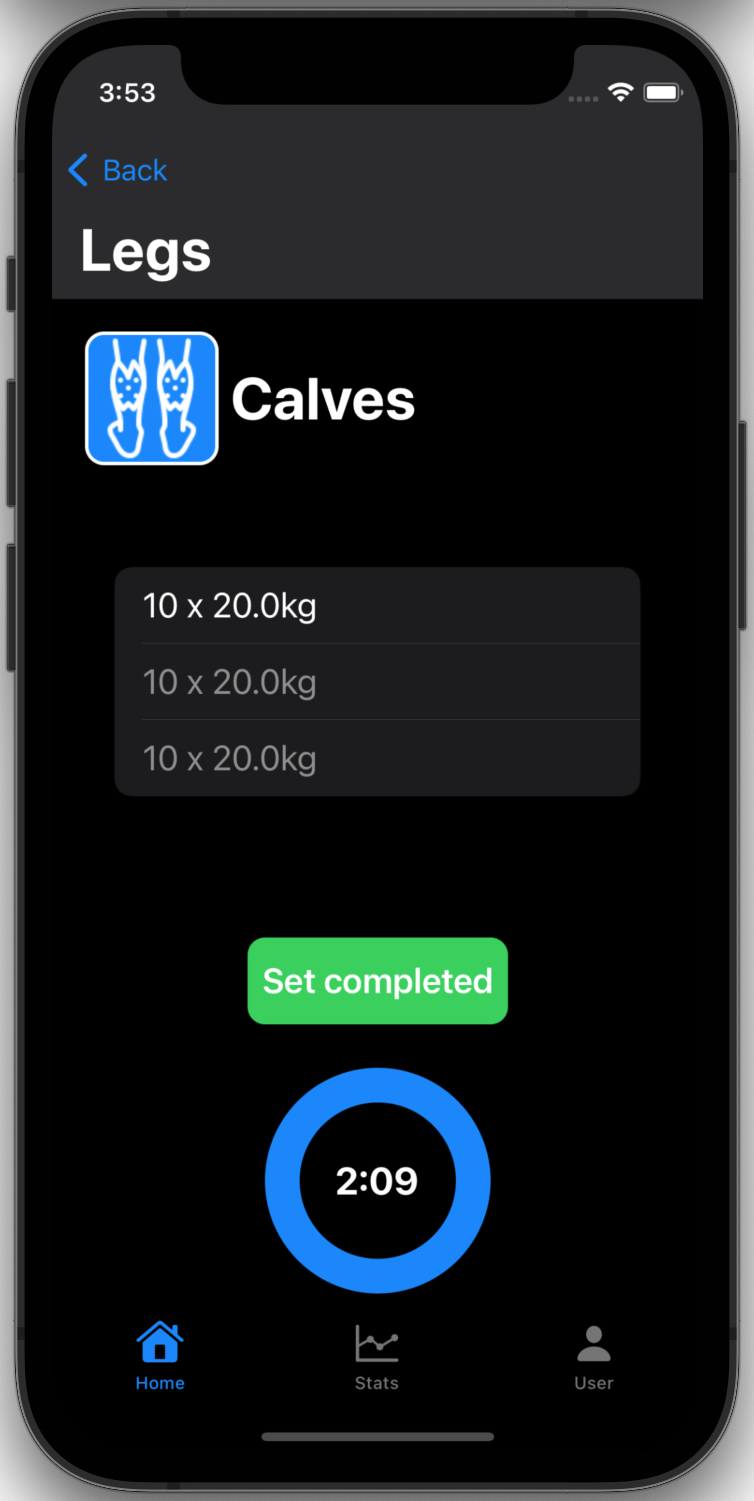
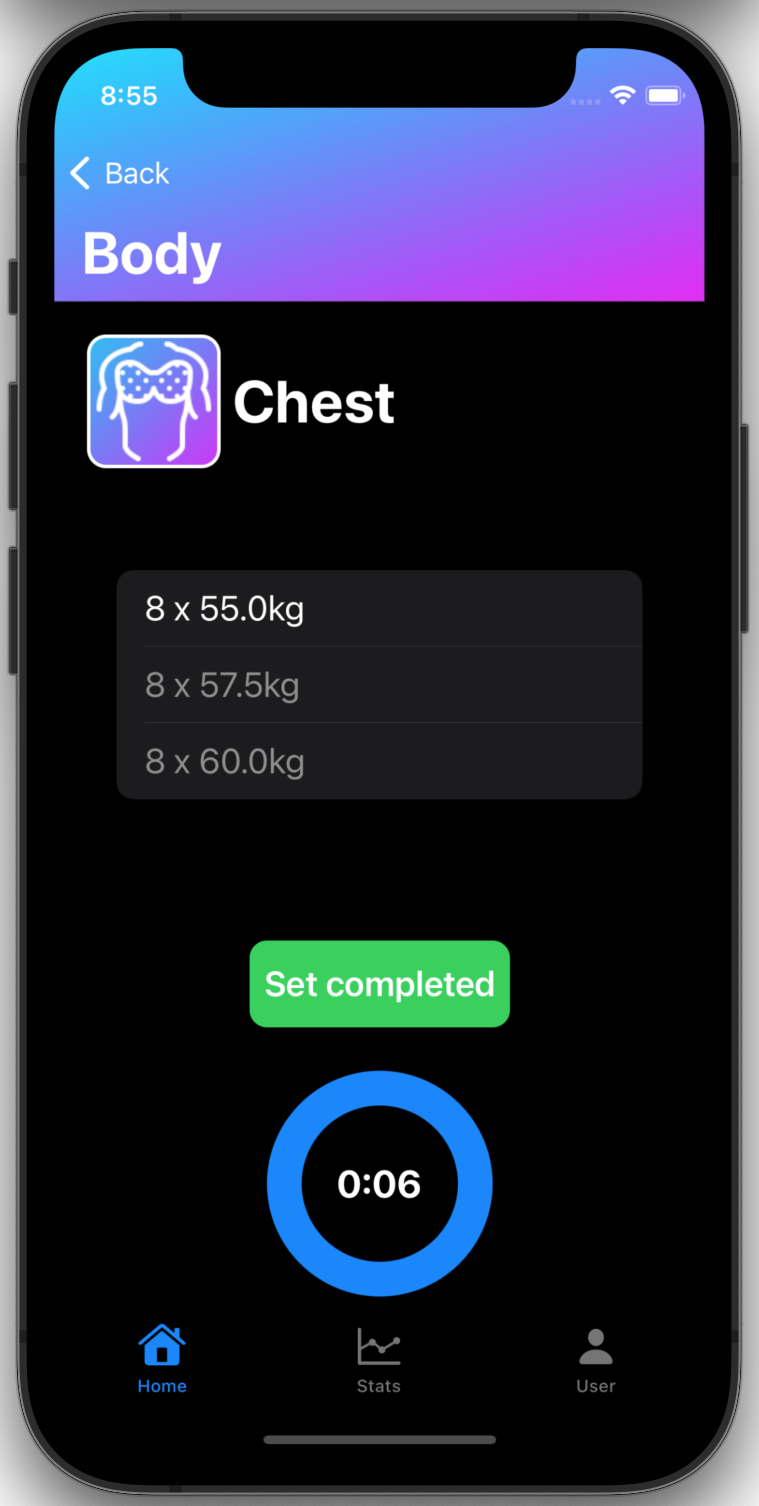
BACK UP

diff --git a/LiftWeights/LiftWeights/Views/HomeView.swift b/LiftWeights/LiftWeights/Views/HomeView.swift
@@ -20,13 +20,13 @@ struct HomeView: View {
         showAddRoutineView = showAddRoutineView
         
         customNavAppearance.configureWithOpaqueBackground()
-        customNavAppearance.backgroundColor = UIColor.systemFill
+        customNavAppearance.backgroundImage = UIImage(named: "background")
         customNavAppearance.titleTextAttributes = [.foregroundColor: UIColor.label]
         customNavAppearance.largeTitleTextAttributes = [.foregroundColor: UIColor.label]
                
         UINavigationBar.appearance().standardAppearance = customNavAppearance
         UINavigationBar.appearance().scrollEdgeAppearance = customNavAppearance
-        
+        UINavigationBar.appearance().tintColor = .white
     }
     
     var body: some View {
@@ -53,12 +53,13 @@ struct HomeView: View {
                             showAddRoutineView = true
                         }, label: {
                             Label("New Routine", systemImage: "plus")
-                        })
+                        }).foregroundColor(.white)
                     }
                 }.sheet(isPresented: $showAddRoutineView) {
                     AddRoutineView(viewModel: viewModel)
                 }
         }
+        
     }
 }
 

diff --git a/LiftWeights/LiftWeights/Views/LinearGradientView.swift b/LiftWeights/LiftWeights/Views/LinearGradientView.swift
@@ -11,13 +11,17 @@ struct LinearGradientView: View {
     
     @ObservedObject var viewModel = DataLoader()
     
+    var radius: Int
+    
     var body: some View {
-        LinearGradient(gradient: Gradient(colors: [viewModel.cyan, viewModel.pink]), startPoint: .leading, endPoint: .trailing).clipShape(RoundedRectangle(cornerRadius: 20, style: .continuous))
+        LinearGradient(gradient: Gradient(colors: [viewModel.cyan, viewModel.pink]), startPoint: .topLeading, endPoint: .bottomTrailing).clipShape(RoundedRectangle(cornerRadius: CGFloat(radius), style: .continuous))
     }
 }
 
+/*
 struct LinearGradientView_Previews: PreviewProvider {
     static var previews: some View {
         LinearGradientView()
     }
 }
+*/

diff --git a/LiftWeights/LiftWeights/Views/UserView.swift b/LiftWeights/LiftWeights/Views/UserView.swift
@@ -28,9 +28,12 @@ struct UserView: View {
                     
                     ZStack(alignment: .center) {
                         Circle()
-                            .foregroundColor(Color.blue)
+                            .background(LinearGradientView(radius: 20))
+                            .foregroundColor(.clear)
                             .frame(width: 100, height: 100, alignment: .center)
                             .shadow(radius: 10)
+                            .clipShape(Circle())
+                            .clipped()
                         Image(uiImage: viewModel.image)
                             .resizable()
                             .frame(width: 100, height: 100, alignment: .center)

diff --git a/LiftWeights/LiftWeights/Views/ExView.swift b/LiftWeights/LiftWeights/Views/ExView.swift
@@ -73,7 +73,7 @@ struct ExView: View {
                             Text("Add Set")
                         }.alert("Warning\n'Reps' must be integer and 'Weight' must be decimal.", isPresented: $showingAlert) {
                             Button("Ok", role: .cancel) { showingAlert = false }
-                        }
+                        }.foregroundColor(.white)
                     }.navigationTitle("Add Set")
                         .navigationViewStyle(.stack)
                 }

diff --git a/LiftWeights/LiftWeights/Views/DoingExView.swift b/LiftWeights/LiftWeights/Views/DoingExView.swift
@@ -38,7 +38,8 @@ struct DoingExView: View {
             HStack(alignment: .center) {
                 ZStack {
                     RoundedRectangle(cornerRadius: 10)
-                        .foregroundColor(Color.blue)
+                        .background(LinearGradientView(radius: 10))
+                        .foregroundColor(.clear)
                         .frame(width: 75, height: 75, alignment: .center)
                     
                     Image(uiImage: viewModel.image)

diff --git a/LiftWeights/LiftWeights/Views/WorkoutView.swift b/LiftWeights/LiftWeights/Views/WorkoutView.swift
@@ -16,7 +16,7 @@ struct WorkoutView: View {
             RoundedRectangle(cornerRadius: 20)
                 .frame(width: 250, height: 180, alignment: .center)
                 .overlay(RoundedRectangle(cornerRadius: 20).stroke(Color(UIColor.label), lineWidth: 5))
-                .background(LinearGradientView())
+                .background(LinearGradientView(radius: 20))
                 .foregroundColor(.clear)
                 .padding(5)
             

diff --git a/LiftWeights/LiftWeights/Views/RoutineRowView.swift b/LiftWeights/LiftWeights/Views/RoutineRowView.swift
@@ -19,7 +19,8 @@ struct RoutineRowView: View {
         HStack {
             ZStack {
                 RoundedRectangle(cornerRadius: 10)
-                    .foregroundColor(Color.blue)
+                    .background(LinearGradientView(radius: 10))
+                    .foregroundColor(.clear)
                     .frame(width: 75, height: 75, alignment: .center)
                 
                 Image(uiImage: viewModel.image)

diff --git a/LiftWeights/LiftWeights/Views/ExRowView.swift b/LiftWeights/LiftWeights/Views/ExRowView.swift
@@ -19,7 +19,8 @@ struct ExRowView: View {
         HStack {
             ZStack {
                 RoundedRectangle(cornerRadius: 10)
-                    .foregroundColor(Color.blue)
+                    .background(LinearGradientView(radius: 10))
+                    .foregroundColor(.clear)
                     .frame(width: 75, height: 75, alignment: .center)
                 
                 Image(uiImage: viewModel.image)

diff --git a/LiftWeights/LiftWeights/Views/RoutineView.swift b/LiftWeights/LiftWeights/Views/RoutineView.swift
@@ -42,7 +42,7 @@ struct RoutineView: View {
                         showAddExView = true
                     }, label: {
                         Label("New Exercise", systemImage: "plus")
-                    })
+                    }).foregroundColor(.white)
                 }
             }.sheet(isPresented: $showAddExView) {
                 AddExView(routine: routine, viewModel: viewModel)

diff --git a/LiftWeights/LiftWeights/Views/StatsView.swift b/LiftWeights/LiftWeights/Views/StatsView.swift
@@ -116,7 +116,7 @@ struct FlatProgressBar: View {
             RoundedRectangle(cornerRadius: 20, style: .continuous)
                 .frame(width: value * width, height: 20)
                 .background(
-                    LinearGradientView()
+                    LinearGradientView(radius: 20)
                 )
                 .foregroundColor(.clear)
         }
